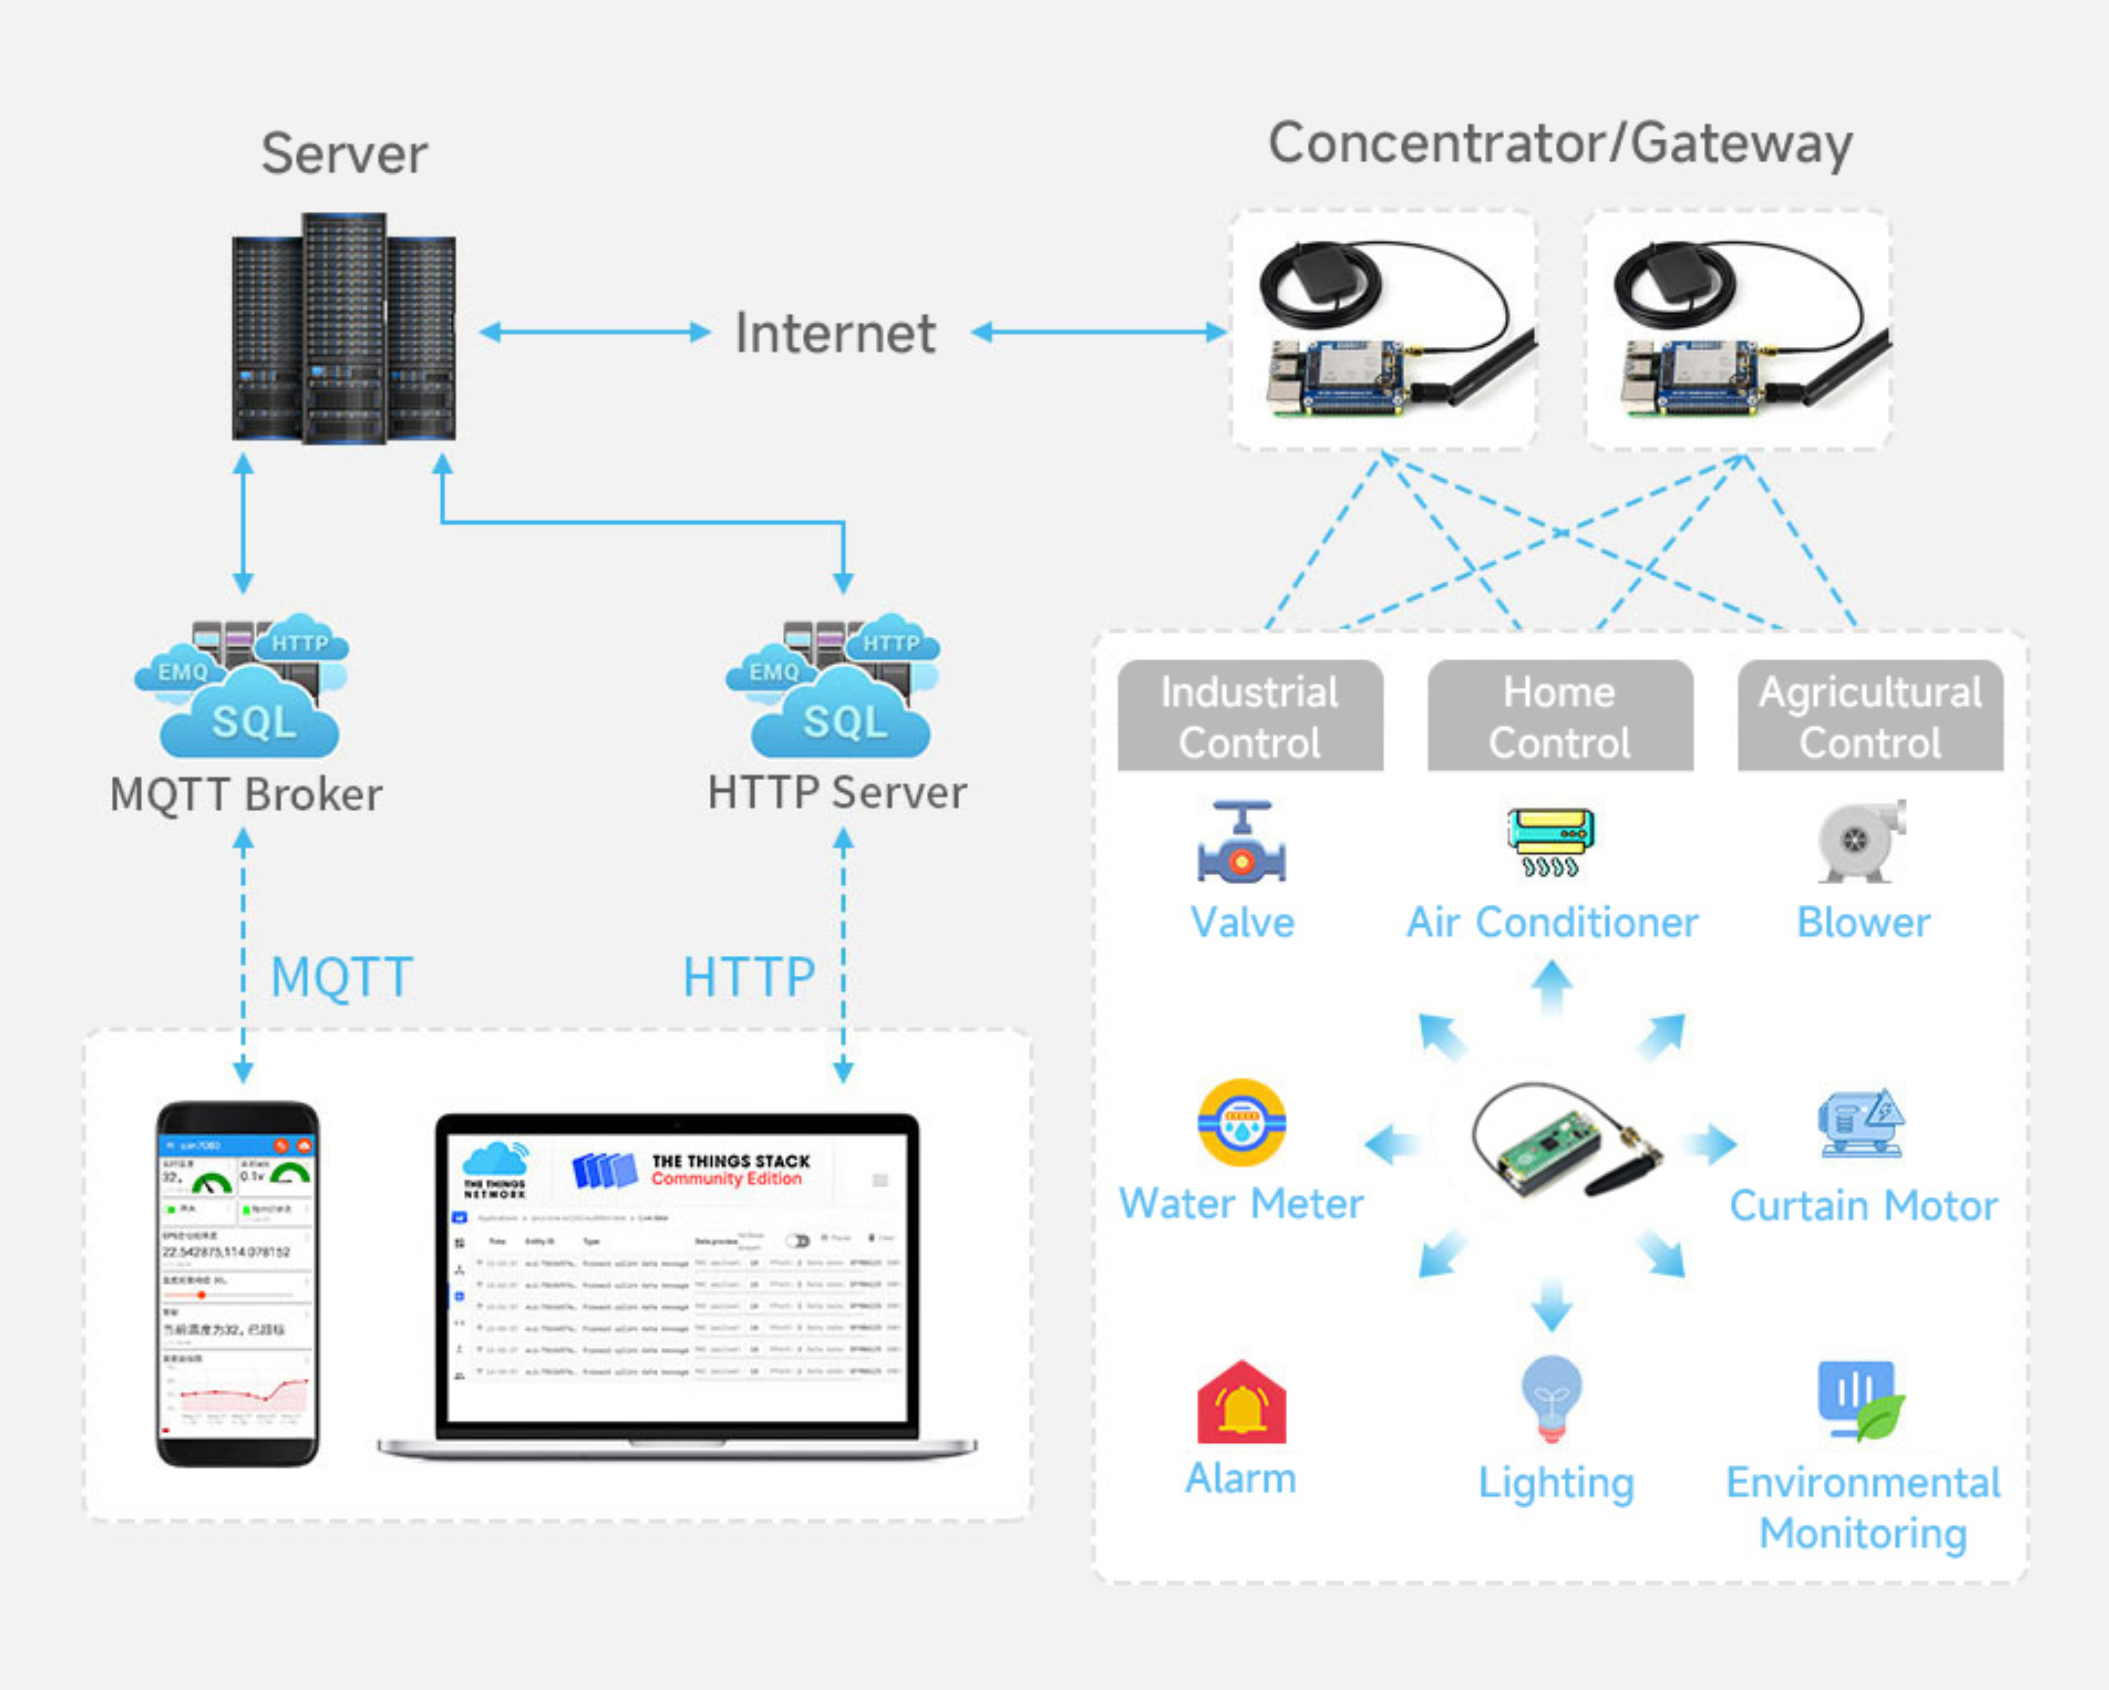
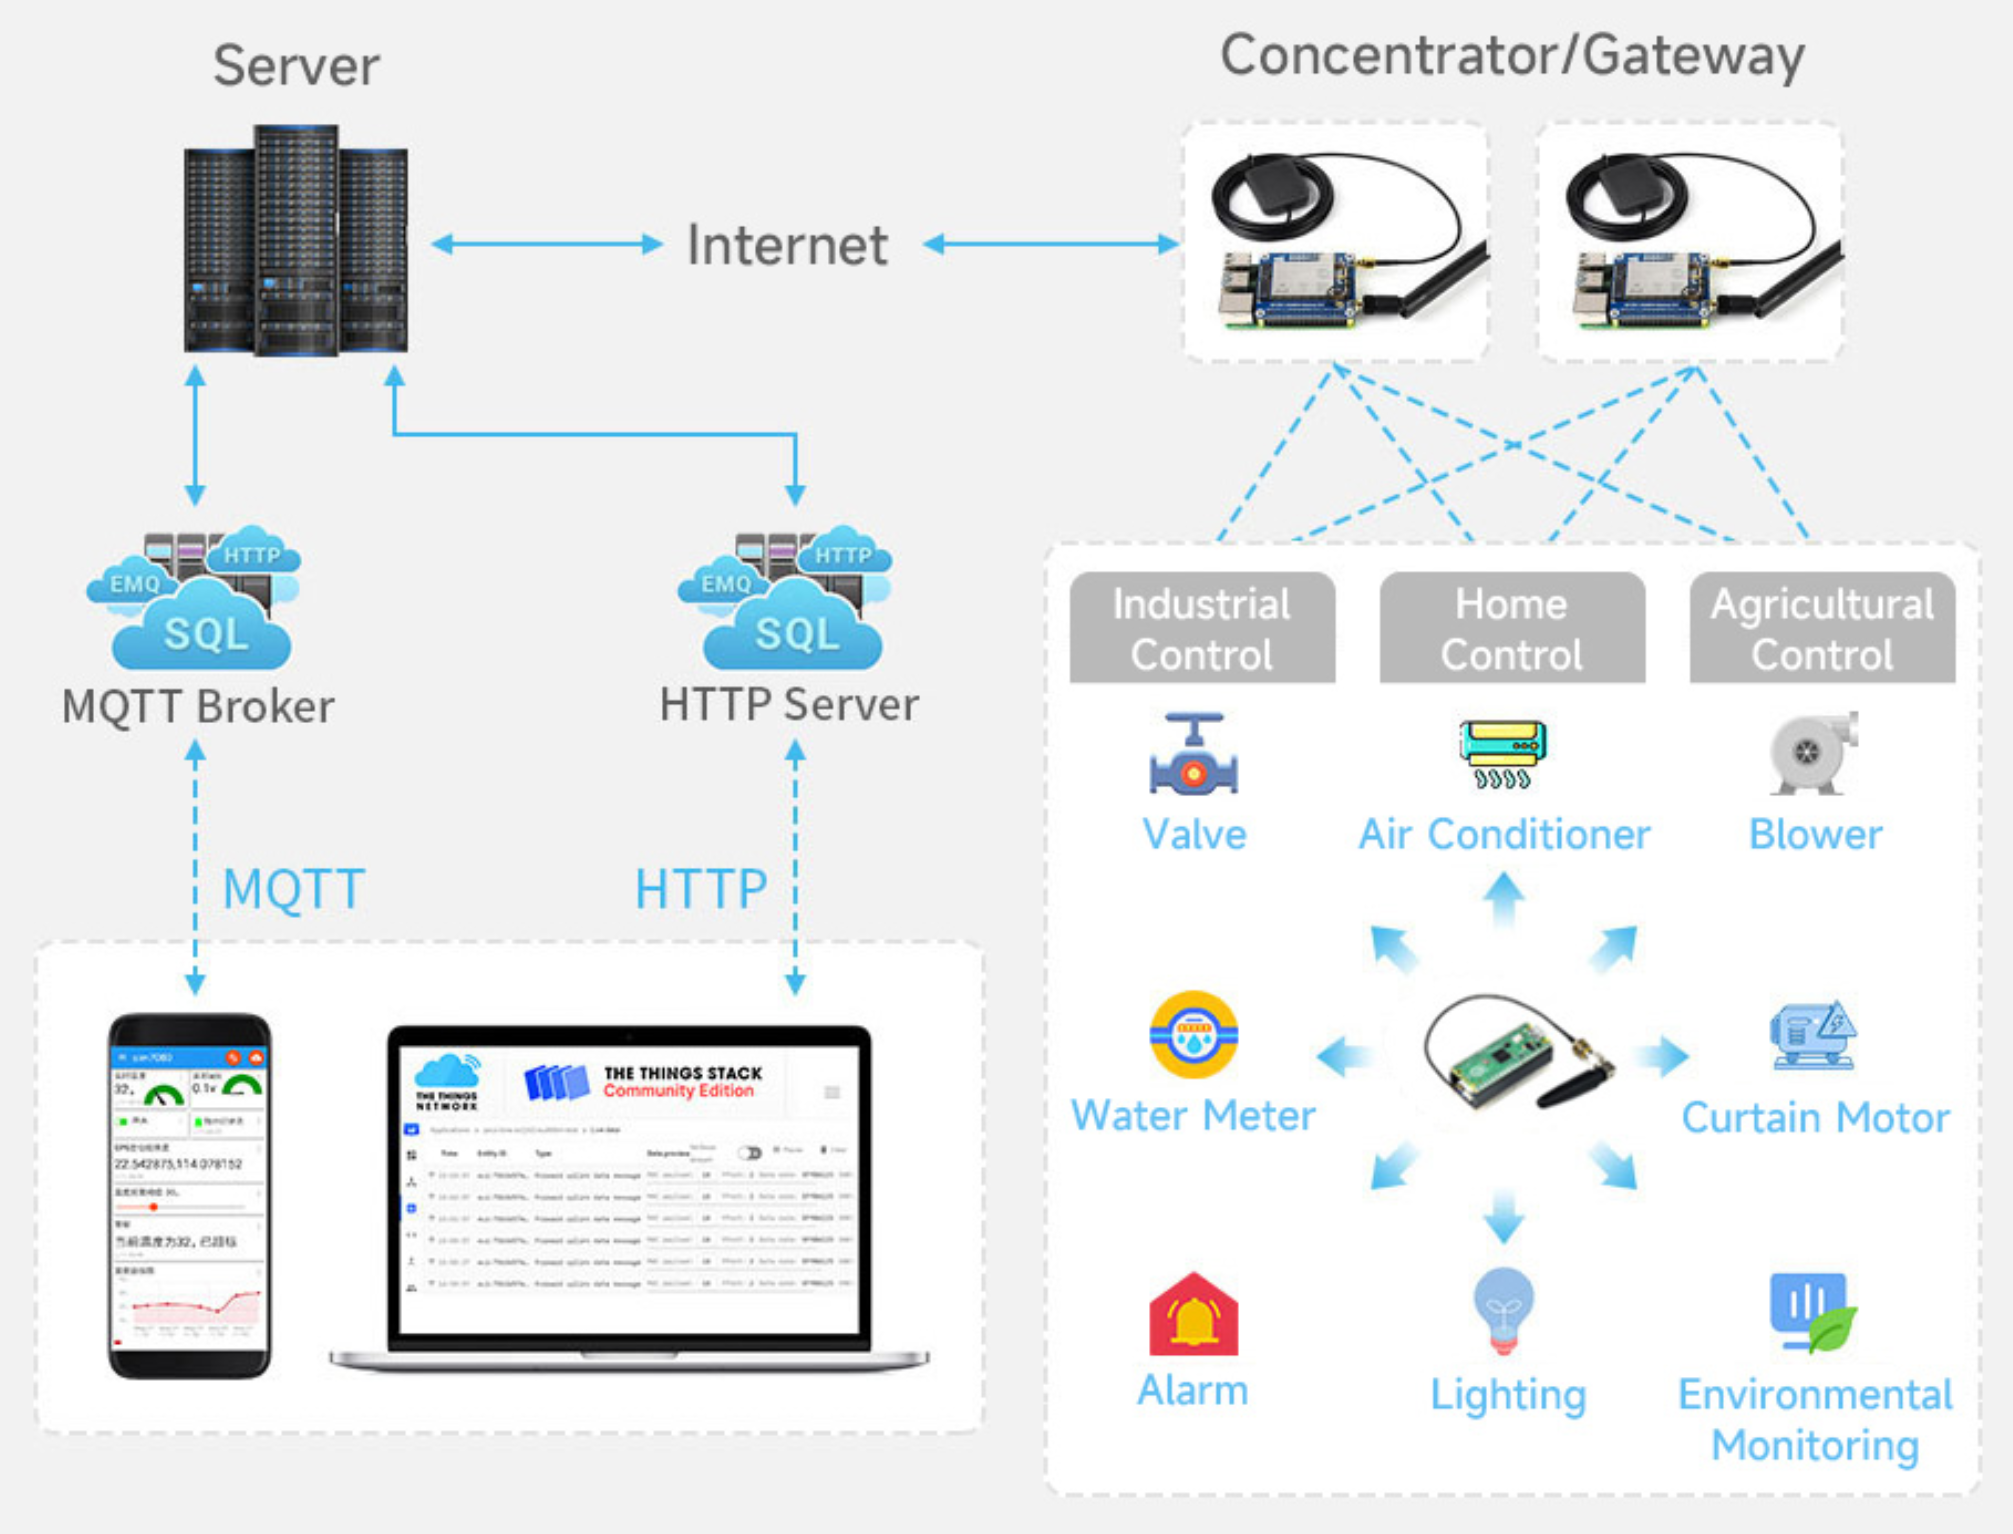
Polish

diff --git a/slides/020-snodec-ueberblick/01900_snode.c-application-architecture.tex b/slides/020-snodec-ueberblick/01900_snode.c-application-architecture.tex
@@ -18,11 +18,11 @@
         \draw (em.north west) + (-1cm, 0) [dashed] -- ++(11cm, 0);
 %%% End draw dashed line above Eventloop-Layer
 %%% Start Lowlevel Server/Client
-        \draw (em.north) node[anchor=south east, outer sep=0, draw, fill=red!30, minimum width=5cm, minimum height=1cm] (llst) {\texttt{SocketServer<SCF\footnote{\label{scf2}\texttt{SCF} \ldots \texttt{SocketContextFactory}}>}};
-        \draw (em.north) node[anchor=south west, outer sep=0, draw, fill=red!30, minimum width=5cm, minimum height=1cm] (llct) {\texttt{SocketClient<SCF\textsuperscript{\ref{scf2}}>}};
+        \draw (em.north) node[anchor=south east, outer sep=0, draw, fill=red!30, minimum width=5cm, minimum height=1cm] (llst) {\texttt{SocketServer<SCF\footnote{\label{scf2e}\texttt{SCF} \ldots \texttt{SocketContextFactory}}>}};
+        \draw (em.north) node[anchor=south west, outer sep=0, draw, fill=red!30, minimum width=5cm, minimum height=1cm] (llct) {\texttt{SocketClient<SCF\textsuperscript{\ref{scf2e}}>}};
 %% End Lowlevel Server/Client
 %% Start SocketConnection
-        \draw (llst.north east) node[anchor=south, draw, fill=orange!30, inner sep=0, outer sep=0, minimum width=10cm, minimum height=1cm] (sc) {\texttt{SocketConnection<SCF\textsuperscript{\ref{scf2}}>}};
+        \draw (llst.north east) node[anchor=south, draw, fill=orange!30, inner sep=0, outer sep=0, minimum width=10cm, minimum height=1cm] (sc) {\texttt{SocketConnection<SCF\textsuperscript{\ref{scf2e}}>}};
 %% End SocketConnection
         \draw (llst.north east) node[outer sep=0, inner sep=0, anchor=center, draw, dashed, fill=blue!30, minimum width=2cm, minimum height=0.5cm] (ssl) {\texttt{ssl/tls}};
 %%$ Start draw dashed line above Eventloop-Layer

diff --git a/slides/023-snodec-iot-preparation/00070-clone-and-compile-mqttbroker.tex b/slides/023-snodec-iot-preparation/00070-clone-and-compile-mqttbroker.tex
@@ -1,14 +1,14 @@
 \nosectionpage
-\section{Clone, Build, and Install the SNode.C Application MQTT-Broker}
+\section{Clone, Build, and Install the SNode.C Reference Project MQTTsuite}
 \withsectionpage
 
-\begin{frame}{Clone, Build, and Install the SNode.C Application MQTT-Broker}
+\begin{frame}{\alert{MQTTsuite}: Clone, Build, and Install the SNode.C Reference Project}
   \begin{enumerate}
-    \item Under the directory \lstinline|projects| create a directory named \lstinline|mqttbroker|,
+    \item Under the directory \lstinline|projects| create a directory named \lstinline|mqttsuite|,
     \item change to that directory.
-    \item Clone the MQTT-Broker application from \alert{\href{https://github.com/VolkerChristian/mqttbroker}{https://github.com/VolkerChristian/mqttbroker}} using \alert{HTTPS} as clone-method.
-    \item Import the MQTT-Broker project into QT-Creator.
-    \item Build and install MQTTbroker.
+    \item Clone the MQTTsuite project from \alert{\href{https://github.com/SNodeC/mqttsuite.git}{https://github.com/SNodeC/mqttsuite.git}} using \alert{HTTPS} as clone-method.
+    \item Import the MQTTsuite project into QT-Creator.
+    \item Build and install MQTTsuite.
     \item Start the \texttt{\alert{mqttbroker}} and the \texttt{\alert{mqttintegrator}} applications separat in two different terminal windows.
     \item Watch the output of both applications.
     \item Use \texttt{\alert{mosquitto\textunderscore{}sub}} and  \texttt{\alert{mosquitto\textunderscore{}pub}} connected to the \texttt{\alert{mqttbroker}}.

diff --git a/slides/023-snodec-iot-preparation/00050-clone-and-compile-snodec.tex b/slides/023-snodec-iot-preparation/00050-clone-and-compile-snodec.tex
@@ -8,7 +8,7 @@
     \item change to that directory on the command line,
     \item create a directory named \lstinline|snode.c|,
     \item change to that directory.
-    \item Clone SNode.C from \alert{\href{https://github.com/VolkerChristian/snode.c}{https://github.com/VolkerChristian/snode.c}} using \alert{HTTPS} as clone-method.
+    \item Clone SNode.C from \alert{\href{https://github.com/SNodeC/snode.c.git}{https://github.com/SNodeC/snode.c.git}} using \alert{HTTPS} as clone-method.
     \item Import the SNode.C framework into QT-Creator.
     \item Build and install SNode.C.
     \item Build the documentation by using QT-Creator.

diff --git a/slides/023-snodec-iot-preparation/00020_install-snodec-requirements.tex b/slides/023-snodec-iot-preparation/00020_install-snodec-requirements.tex
@@ -1,8 +1,8 @@
 \nosectionpage
-\section{Install all Necessary Development Tools for SNode.C}
+\section{Install all Necessary Development Tools for SNode.C and MQTTsuite}
 \withsectionpage
 
-\begin{frame}{Install all Necessary Development Tools for SNode.C}
+\begin{frame}{Install all Necessary Development Tools for SNode.C and MQTTsuite}
   \begin{itemize}
     \item Learn how to install and update software packages using the tool \alert{\texttt{apt}} in Debian
     \item Install the following packages used for developing C++ application:

diff --git a/slides/030-short-iot-recap/01810_data-rate.tex b/slides/030-short-iot-recap/01810_data-rate.tex
@@ -18,6 +18,7 @@
     \caption{Data rates for the EU868, EU433, CN780 and AS923 bands}
     \end{table}%
   \end{center}%
+  \vspace{-2mm}
   \begin{description}[$\Rightarrow$]
     \item[$\Rightarrow$] By knowing the configured \alert{data rate} of a device you also know the \alert{bit rate} and maximum \alert{guarantied payload size}.\\
     \item[$\Rightarrow$] The \alert{payload size} can have a \alert{upper limit} if \alert{dwell time} is imposed by the regulator. E.g. US915 a dwell limit of $\SI{400}{\milli\second}$ applies.

diff --git a/slides/030-short-iot-recap/02000_lorawan-overview.tex b/slides/030-short-iot-recap/02000_lorawan-overview.tex
@@ -6,7 +6,7 @@
   \alert{LoRaWAN} is an abbreviation for \alert{Long Range Wide Area Network},\\and is standardized by the \href{https://lora-alliance.org/}{\alert{LoRa Alliance}}.
 
   \begin{center}
-    \includegraphics[width=0.3\textwidth]{material/lorawan-logo.png}\\
+    \includegraphics[width=0.28\textwidth]{material/lorawan-logo.png}\\
     \includegraphics[width=0.5\textwidth]{material/lorawan-topography.jpg}
   \end{center}
 \end{frame}

diff --git a/slides/023-snodec-iot-preparation/00040-install-snodec-requirements.tex b/slides/023-snodec-iot-preparation/00040-install-snodec-requirements.tex
@@ -1,8 +1,8 @@
 \nosectionpage
-\section{Install all Necessary Libraries for SNode.C}
+\section{Install all Necessary Libraries for SNode.C and MQTTsuite}
 \withsectionpage
 
-\begin{frame}{Install all Necessary Libraries for SNode.C}
+\begin{frame}{Install all Necessary Libraries for SNode.C and MQTTsuite}
   \begin{itemize}
     \item Install all \alert{Hard Dependencies}:
     \begin{itemize}

diff --git a/slides/030-short-iot-recap/02165_lora-lorawan-typical-overall-deployment-architecture.tex b/slides/030-short-iot-recap/02165_lora-lorawan-typical-overall-deployment-architecture.tex
@@ -1,5 +1,5 @@
 \begin{frame}{Architecture of a Typical LoRaWAN Deployment}
   \begin{center}
-    \includegraphics[width=0.63\textwidth]{material/lorawan-overview.png}
+    \includegraphics[width=0.6\textwidth]{material/lorawan-overview.png}
   \end{center}
 \end{frame}
